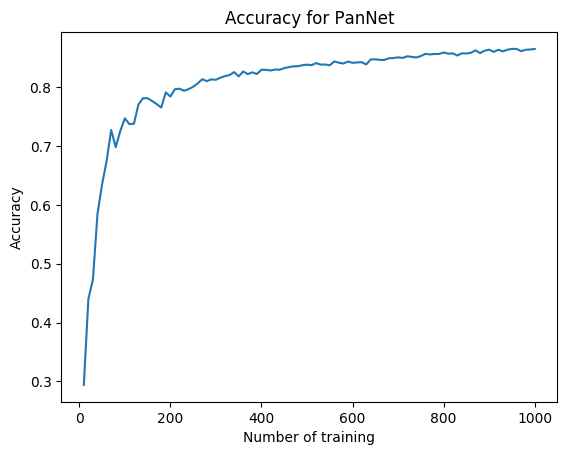
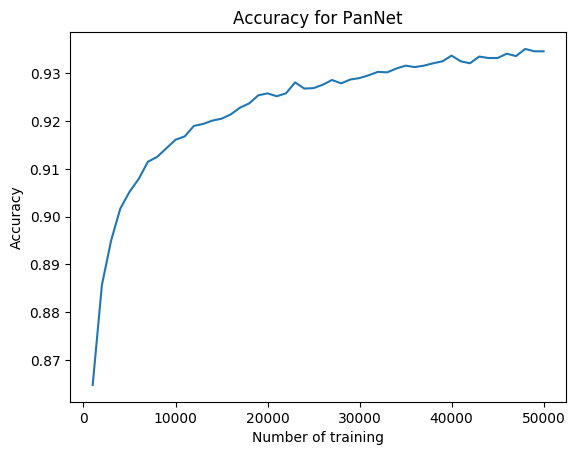
PanNet checkpoint included

diff --git a/PanNet.py b/PanNet.py
@@ -19,8 +19,8 @@ num_filter2 = 12
 learning_rates = 0.1
 num_training1 = 4000
 num_training2 = 6000
-num_training3 = 1000
-iter_accuracy = 10
+num_training3 = 50000
+iter_accuracy = 1000
 
 # Default parameters
 num_input = 784
